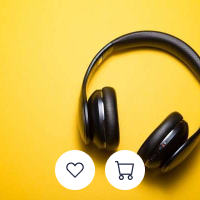
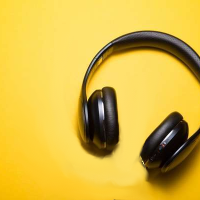
images

Changed region(s): [[0.27, 0.6, 0.75, 0.96], [0.69, 0.99, 0.72, 1.0], [0.57, 0.99, 0.6, 1.0]]

diff --git a/src/components/Card/Card.jsx b/src/components/Card/Card.jsx
@@ -7,7 +7,7 @@ import { faHeart as faHeartRed } from "@fortawesome/free-solid-svg-icons";
 
 // import { faEnvelope } from "@fortawesome/free-regular-svg-icons";
 import { faHeart } from "@fortawesome/free-regular-svg-icons";
-
+import faCart from "../../icons/shopping-cart.png";
 import { faCartShopping } from "@fortawesome/free-solid-svg-icons";
 const Card = () => {
   const [isRed, setIsRed] = useState(false);
@@ -40,8 +40,8 @@ const Card = () => {
                 onClick={toggleHeart}
               />
 
-              <FontAwesomeIcon
-                icon={faCartShopping}
+              {/* <FontAwesomeIcon
+                icon={faCart}
                 style={{
                   fontSize: "1.5em",
                   color: "black",
@@ -52,7 +52,25 @@ const Card = () => {
                 }}
                 onClick={() => console.log("Cart Icon Clicked!!!")}
                 className="icon"
-              />
+              /> */}
+              <div
+                style={{
+                  display: "flex",
+                  flexDirection: "column",
+                  alignItems: "center",
+                  fontSize: "1.5em",
+                  width: "2em",
+                  height: "2em",
+                  color: "black",
+                  backgroundColor: "white",
+                  padding: "12px",
+                  marginLeft: "15px",
+                  borderRadius: "50%",
+                }}
+                className="faCart icon"
+              >
+                <img src={faCart} alt="" />
+              </div>
             </div>
           </div>
           <p className="image-sale">sale</p>

diff --git a/src/components/ProductsServices/ProdServices.css b/src/components/ProductsServices/ProdServices.css
@@ -12,9 +12,8 @@
   background-repeat: no-repeat;
   /* background-color: red; */
 
-   /* background-color: blue;  */
+  /* background-color: blue;  */
 }
-
 
 .product-services-form-container {
   display: flex;
@@ -28,7 +27,6 @@
   /* background-color: #755959; */
 }
 
-
 .form-items {
   padding: 10px;
   min-height: 880px;
@@ -37,7 +35,6 @@
   /* margin-left: 1480px; */
   /* background-color: yellow; */
 }
-
 
 .logo {
   margin-left: 130px;
@@ -53,7 +50,7 @@
 }
 
 .upload-img {
-   /* background-color: aquamarine;  */
+  /* background-color: aquamarine;  */
   margin-left: 50px;
   height: 190px;
   display: flex;
@@ -142,7 +139,7 @@ form {
   font-size: medium;
   /* background-color:azure; */
   /* margin-left: -40px; */
-transform: translateX(-50px);
+  transform: translateX(-50px);
 }
 
 label {

diff --git a/src/components/Card/card.css b/src/components/Card/card.css
@@ -16,7 +16,7 @@
   border-radius: 8px;
   /* background-color: red; */
   /* box-shadow: 0 2px 4px rgba(0, 0, 0, 0.1); */
-  justify-content: flex-start !important;
+
   /* overflow: hidden; */
   margin: 10px;
 }
@@ -86,7 +86,6 @@
 .content {
   flex: 2;
   padding: 20px;
-  /* align-self: flex-start; */
 }
 
 .header {
@@ -109,6 +108,7 @@
 }
 .card-icons {
   position: absolute;
+  display: flex;
   width: 8vw;
   bottom: 20.5px;
   /* margin-left: 10px; */
@@ -169,4 +169,8 @@
 }
 .icon:hover {
   cursor: pointer;
+}
+.faCart img {
+  width: 30px;
+  height: 30px;
 }
